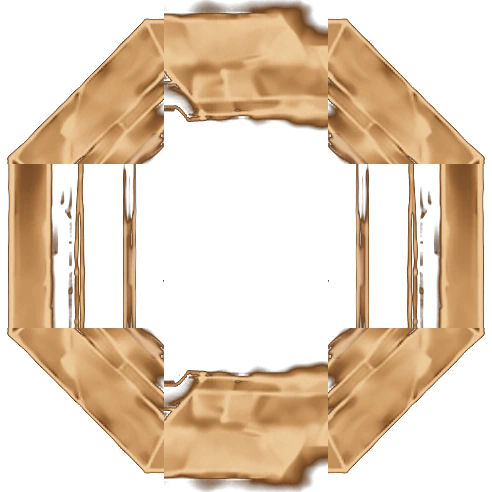
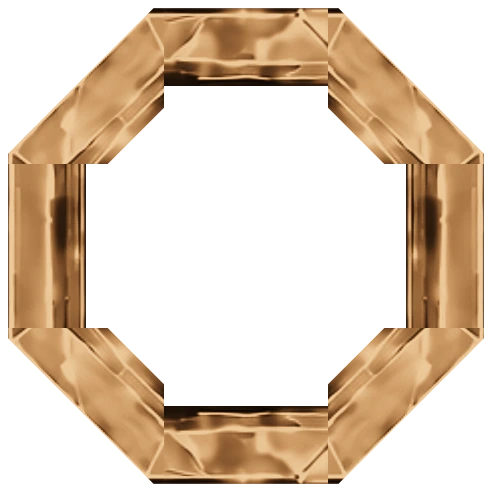
Light-mode polish: card outline, list panels, clean row frames
From the owner's screenshots (2026-10-06):

- The full card showed its plate's black surround as a box on a light page.
  The card is now clipped to the frame's outline (CARD_SILHOUETTE in
  lib/cardGeometry, measured from the plate art); its drop shadow moves to
  the box around the stage so it follows the outline. Inside the outline
  the five levels match the old baselines to within 18 px of anti-aliasing;
  baselines re-recorded (design/baselines/README.md).
- Roster and leaderboard "floating around": the coach roster is one panel
  with a checked-in count, each player's status a chip under their row; the
  leaderboard's ranks 4+ are one panel under the podium.
- The sideways rows' frame looked badly cut: the mini frame (all levels and
  staff) is now one even band of the rail, cut on the card's outline, with
  rail pieces taken from flat stretches, so its edges are straight and the
  corners match.

Checks: tsc; 254 tests; fit (Chromium, WebKit); contrast both modes;
outlines; card baselines and style guide at 0.00%.

diff --git a/scripts/card-art.ts b/scripts/card-art.ts
@@ -31,13 +31,12 @@
 import { mkdirSync } from "node:fs";
 import { join } from "node:path";
 import sharp from "sharp";
-import { FRAME_WINDOW, MASTER_W } from "../lib/cardGeometry";
+import { CARD_SILHOUETTE, FRAME_WINDOW, MASTER_W } from "../lib/cardGeometry";
 import {
   FRAME_CELLS,
   LEVEL_LOOKS,
   RING_BAND,
   STAFF_LOOK,
-  brightness,
   pixelRecolor,
   swirlSource,
   type Recolor,
@@ -74,6 +73,28 @@ function columnWeight(x: number): number {
   if (x < KEEP_END) return 0;
   if (x < HANDOVER_END) return (x - KEEP_END) / (HANDOVER_END - KEEP_END);
   return 1;
+}
+
+/** The rows' frame band = 255: the metal rail just inside the card's
+ * outline, ROW_RAIL card units deep all the way round (the outline drawn as a
+ * thick inside stroke, rendered as SVG so every edge is a clean straight cut).
+ * The card's own inner lines and notches stay out of the rows' frame. */
+const ROW_RAIL = 38;
+async function frameBandMask(): Promise<Buffer> {
+  const unit = W / MASTER_W;
+  const points = CARD_SILHOUETTE.map(([x, y]) => `${x * unit},${y * unit}`).join(" ");
+  return sharp(
+    Buffer.from(
+      `<svg xmlns="http://www.w3.org/2000/svg" width="${W}" height="${H}">` +
+        `<defs><clipPath id="c"><polygon points="${points}"/></clipPath></defs>` +
+        `<rect width="100%" height="100%" fill="black"/>` +
+        `<polygon points="${points}" fill="none" stroke="white" stroke-width="${ROW_RAIL * 2 * unit}" ` +
+        `stroke-linejoin="miter" clip-path="url(#c)"/></svg>`,
+    ),
+  )
+    .greyscale()
+    .raw()
+    .toBuffer();
 }
 
 /** Inside the frame window = 255. */
@@ -227,17 +248,12 @@ function ring(plate: Buffer): { pixels: Buffer; size: number } {
   return { pixels: out, size };
 }
 
-/** The frame's alpha from a pixel's brightness: the plate's dark backdrop
- * (≤ FRAME_CLEAR) is fully transparent, the metal (≥ FRAME_SOLID) opaque.
- * A softer fade left the backdrop 20–45% opaque — invisible on black, a gray
- * box around every row on a light page (owner, 2026-10-06). */
-const FRAME_CLEAR = 40;
-const FRAME_SOLID = 90;
-
 /** The rows' mini frame, as a 3×3 nine-slice (RGBA): the plate's corner, top
- * rail and left rail, mirrored for the other sides. Dark pixels are
- * transparent, so only the frame's lines sit over the row. */
-function frame(plate: Buffer): { pixels: Buffer; size: number; cell: number } {
+ * rail and left rail, mirrored for the other sides. Opaque exactly on the
+ * frame band (inside the card's outline, outside its window), so every edge
+ * is a clean straight cut: the owner saw ragged, notched edges on the rows
+ * when the alpha came from brightness (2026-10-06). */
+function frame(plate: Buffer, band: Buffer): { pixels: Buffer; size: number; cell: number } {
   const cell = Math.round(FRAME_CELLS.size * UNIT);
   const size = cell * 3;
   const out = Buffer.alloc(size * size * 4);
@@ -257,8 +273,7 @@ function frame(plate: Buffer): { pixels: Buffer; size: number; cell: number } {
         out[o] = Math.round(rgb[0]);
         out[o + 1] = Math.round(rgb[1]);
         out[o + 2] = Math.round(rgb[2]);
-        const lit = (brightness(rgb[0], rgb[1], rgb[2]) - FRAME_CLEAR) / (FRAME_SOLID - FRAME_CLEAR);
-        out[o + 3] = Math.round(Math.max(0, Math.min(1, lit)) * 255);
+        out[o + 3] = band[Math.round(sy) * W + Math.round(sx)];
       }
     }
   }
@@ -266,28 +281,29 @@ function frame(plate: Buffer): { pixels: Buffer; size: number; cell: number } {
 }
 
 /** A level's plate plus the small sizes' ring and mini frame cut from it. */
-async function writeArt(dir: string, plate: Buffer, writePlate = true) {
+async function writeArt(dir: string, plate: Buffer, band: Buffer, writePlate = true) {
   if (writePlate) await writeWebp(plate, W, H, 3, join(dir, "plate.webp"), 92);
   const r = ring(plate);
   await writeWebp(r.pixels, r.size, r.size, 4, join(dir, "ring.webp"), 92);
-  const f = frame(plate);
+  const f = frame(plate, band);
   await writeWebp(f.pixels, f.size, f.size, 4, join(dir, "frame.webp"), 92);
 }
 
 async function main() {
   const mask = await windowMask();
+  const band = await frameBandMask();
   const plate = await platinumPlate(mask);
-  await writeArt(finishDir("platinum"), plate, false);
+  await writeArt(finishDir("platinum"), plate, band, false);
   const field = await sharp(FIELD_SOURCE).removeAlpha().raw().toBuffer({ resolveWithObject: true });
   const { width: fw, height: fh } = field.info;
   await writeWebp(field.data, fw, fh, 3, join(finishDir("platinum"), "field.webp"), 90);
 
   for (const [level, look] of Object.entries(LEVEL_LOOKS)) {
-    await writeArt(finishDir(level), recolor(plate, W, H, 3, look.frame, look.window, mask));
+    await writeArt(finishDir(level), recolor(plate, W, H, 3, look.frame, look.window, mask), band);
     const own = twist(field.data, fw, fh, 3, look.swirls);
     await writeWebp(recolor(own, fw, fh, 3, look.field), fw, fh, 3, join(finishDir(level), "field.webp"), 90);
   }
-  await writeArt(join("public", "card", "staff"), recolor(plate, W, H, 3, STAFF_LOOK.frame, STAFF_LOOK.window, mask));
+  await writeArt(join("public", "card", "staff"), recolor(plate, W, H, 3, STAFF_LOOK.frame, STAFF_LOOK.window, mask), band);
 }
 
 main().catch((e) => {

diff --git a/app/(main)/CoachHome.tsx b/app/(main)/CoachHome.tsx
@@ -4,6 +4,8 @@ import { formatTime } from "@/lib/format";
 import { PlayerCard } from "@/app/components/PlayerCard";
 import { sendCheckInReminder } from "./coach/actions";
 import { cutoutSrc, photoSrc } from "@/lib/photoUrl";
+import { cardDefault } from "@/app/components/ui/Card";
+import { chipClass } from "@/app/components/ui/Pill";
 
 // The coach's team dashboard (shown at "/" for a COACH). A TODAY summary with a
 // check-in progress ring + the full roster (alphabetical by last name) as compact
@@ -151,13 +153,19 @@ export async function CoachHome({
         );
       })()}
 
-      {/* ROSTER */}
-      <section>
-        <p className="e24-eyebrow mb-2">Roster · {totalPlayers}</p>
+      {/* ROSTER — one panel; each player is a unit: their row, then today's
+          status as a chip (owner, 2026-10-06: loose lines read as floating). */}
+      <section className={`${cardDefault} p-4`}>
+        <div className="flex items-baseline justify-between gap-3">
+          <h2 className="e24-eyebrow">Roster · {totalPlayers}</h2>
+          <span className="text-xs font-semibold text-subtle">
+            {checkedInToday} of {totalPlayers} checked in
+          </span>
+        </div>
         {roster.length === 0 ? (
-          <p className="text-sm text-subtle">No players on this team yet.</p>
+          <p className="mt-3 text-sm text-subtle">No players on this team yet.</p>
         ) : (
-          <ul className="flex flex-col gap-3">
+          <ul className="mt-3 flex flex-col gap-4">
             {roster.map((r) => (
               <li key={r.id}>
                 <Link
@@ -179,15 +187,17 @@ export async function CoachHome({
                     }}
                     team={user.team}
                   />
-                  <p
-                    className={`mt-1 px-1 text-[11px] font-medium ${
-                      r.checkedInAt ? "text-good" : "text-warn"
-                    }`}
-                  >
-                    {r.checkedInAt
-                      ? `✓ Checked in ${formatTime(r.checkedInAt)}`
-                      : "Not checked in yet"}
-                  </p>
+                  <span className="mt-1.5 flex items-center justify-between gap-2 px-1">
+                    {r.checkedInAt ? (
+                      <span className={chipClass("good")}>✓ Checked in {formatTime(r.checkedInAt)}</span>
+                    ) : (
+                      <span className={chipClass("neutral")}>
+                        <span aria-hidden className="h-2 w-2 rounded-full bg-warn-solid" />
+                        Not checked in yet
+                      </span>
+                    )}
+                    <span className="text-xs font-semibold text-subtle">Open →</span>
+                  </span>
                 </Link>
               </li>
             ))}

diff --git a/app/components/card/CardCompositor.tsx b/app/components/card/CardCompositor.tsx
@@ -1,7 +1,7 @@
 "use client";
 
 import { useEffect, useRef, useState, type CSSProperties, type ReactNode } from "react";
-import { CARD_ASPECT, DEFAULT_WIDTH_PX, MASTER_W } from "@/lib/cardGeometry";
+import { CARD_ASPECT, CARD_CLIP, DEFAULT_WIDTH_PX, MASTER_W } from "@/lib/cardGeometry";
 
 // THE COMPOSITOR ROOT (Plan v4 §4.5). One fixed-aspect stage on the 1000×1500
 // master: every child positions itself in design units via `--u`
@@ -13,6 +13,11 @@ import { CARD_ASPECT, DEFAULT_WIDTH_PX, MASTER_W } from "@/lib/cardGeometry";
 // The stack must stay FLAT: every layer is a direct child of the stage — no
 // wrapper with filter/clip-path/opacity between a blended layer and what it
 // blends onto (each of those creates a stacking context and breaks blending).
+//
+// The stage is clipped to the frame's outline (CARD_CLIP), so the plate's
+// black surround never shows on a light page. A caller's `filter` (the card's
+// drop shadow) goes on the box AROUND the stage, so the shadow follows the
+// clipped outline instead of being cut off by it.
 
 export function CardCompositor({
   width = DEFAULT_WIDTH_PX,
@@ -30,6 +35,7 @@ export function CardCompositor({
   className?: string;
   style?: CSSProperties;
 } & Omit<React.HTMLAttributes<HTMLDivElement>, "style" | "className" | "children">) {
+  const { filter, ...stageStyle } = style ?? {};
   const ref = useRef<HTMLDivElement>(null);
   const raf = useRef<number | null>(null);
   const [reduced, setReduced] = useState(false);
@@ -84,7 +90,7 @@ export function CardCompositor({
   // too — read on the stage, container units come from whatever container
   // is outside the card, and a small card got a screen-sized shadow.
   return (
-    <div style={{ width, maxWidth: "100%", containerType: "inline-size" }}>
+    <div style={{ width, maxWidth: "100%", containerType: "inline-size", filter }}>
       <div
         ref={ref}
         {...rest}
@@ -105,6 +111,7 @@ export function CardCompositor({
           // still widened the page, letting it open zoomed-in on a phone.
           // "clip", not "hidden": no scroll container, and the 3D tilt holds.
           overflow: "clip",
+          clipPath: CARD_CLIP,
           isolation: "isolate",
           // Vertical scroll and pinch-zoom still work when a gesture starts on
           // the card; sideways drags drive the tilt. A still card leaves touch
@@ -120,7 +127,7 @@ export function CardCompositor({
             "--u": `calc(100cqw / ${MASTER_W})`,
             ...(staticRender ? { "--so": "0" } : {}),
           } as CSSProperties),
-          ...style,
+          ...stageStyle,
         }}
       >
         <style>{STAGE_STYLE}</style>

diff --git a/app/(main)/leaderboard/page.tsx b/app/(main)/leaderboard/page.tsx
@@ -7,7 +7,7 @@ import {
   type RankedPlayer,
 } from "@/lib/leaderboard";
 import { PlayerCard, type CardTeam } from "@/app/components/PlayerCard";
-import { rowOnPage } from "@/app/components/ui/Card";
+import { cardDefault, rowOnPage } from "@/app/components/ui/Card";
 import { chipClass, pillClass } from "@/app/components/ui/Pill";
 import { cutoutSrc, photoSrc } from "@/lib/photoUrl";
 
@@ -260,11 +260,12 @@ export default async function LeaderboardPage({
         </section>
       )}
 
-      {/* List — rank 4+ */}
+      {/* List — rank 4+, in one panel under the podium (owner, 2026-10-06:
+          rows loose on the page read as floating). */}
       {!weekView && rest.length > 0 && (
-        <section>
-          <div className="mb-3 h-px w-full bg-gradient-to-r from-transparent via-line-strong to-transparent" />
-          <ul className="flex flex-col gap-2">
+        <section className={`${cardDefault} p-4`}>
+          <h2 className="e24-eyebrow">Ranks 4–{ranked.length}</h2>
+          <ul className="mt-3 flex flex-col gap-2.5">
             {rest.map((player) => {
               const isMe = player.id === user.id;
               return (
@@ -272,7 +273,7 @@ export default async function LeaderboardPage({
                   <Link
                     href={`/brand/${player.id}`}
                     className={`relative block rounded-xl transition active:scale-[0.99] ${
-                      isMe ? "ring-2 ring-accent-edge ring-offset-2 ring-offset-canvas" : "hover:opacity-90"
+                      isMe ? "ring-2 ring-accent-edge ring-offset-2 ring-offset-panel" : "hover:opacity-90"
                     }`}
                   >
                     <PlayerCard

diff --git a/lib/cardGeometry.ts b/lib/cardGeometry.ts
@@ -44,6 +44,19 @@ export type Zone = { x: number; y: number; w: number; h: number };
 /** Selects the face window in the supplied artwork; never draws metal. */
 export const FRAME_WINDOW = "M115 82H885L918 115V1160L884 1211H120L82 1170V116L115 82Z";
 
+/** The card's outline: the frame's outside edge, a hair inside the metal,
+ * measured from the plate art (every level's plate is a recolor of the same
+ * frame). The plate is a rectangle with black around the frame — invisible on
+ * a black page, a black box on a light one (owner, 2026-10-06) — so the card
+ * is clipped to this. Not a geometry change: everything inside stays put. */
+export const CARD_SILHOUETTE: readonly (readonly [number, number])[] = [
+  [44, 95], [115, 24], [318, 24], [328, 34], [672, 34], [682, 24], [885, 24], [956, 95],
+  [956, 1406], [890, 1472], [795, 1472], [785, 1479], [745, 1479], [735, 1486],
+  [265, 1486], [255, 1479], [215, 1479], [205, 1472], [110, 1472], [44, 1406],
+];
+/** CARD_SILHOUETTE as a CSS clip-path (percentages, so it fits any width). */
+export const CARD_CLIP = `polygon(${CARD_SILHOUETTE.map(([x, y]) => `${(x / MASTER_W) * 100}% ${(y / MASTER_H) * 100}%`).join(", ")})`;
+
 // ---- safe areas -----------------------------------------------------------
 
 /**

diff --git a/lib/finishArt.ts b/lib/finishArt.ts
@@ -126,8 +126,11 @@ export const STAFF_LOOK: Pick<LevelLook, "frame" | "window" | "live" | "energy">
 export const RING_BAND = { x0: 44, x1: 66, y0: 500, y1: 1150 };
 
 /** The corner, top rail and left rail cells of the rows' mini frame; the
- * other sides mirror them, so it's symmetric and free of the card's notches. */
-export const FRAME_CELLS = { size: 80, corner: { x: 40, y: 17 }, top: { x: 250, y: 17 }, left: { x: 40, y: 600 } };
+ * other sides mirror them, so it's symmetric and free of the card's notches.
+ * The rails come from flat stretches whose edges line up with the corner's
+ * (the top rail steps down at x 318–328; the side rail has ornaments at
+ * y 420 and 725–775 — cells across those showed as notches on the rows). */
+export const FRAME_CELLS = { size: 80, corner: { x: 40, y: 20 }, top: { x: 160, y: 20 }, left: { x: 40, y: 820 } };
 
 // ---- the recolor -----------------------------------------------------------
 

diff --git a/design/baselines/README.md b/design/baselines/README.md
@@ -3,6 +3,7 @@
 Owner-approved card renders. `scripts/shoot-cards.ts --check` pixel-compares fresh shots against these to catch accidental drift. The owner's visual approval is the design authority; these files only record it.
 
 - `master-bronze.png`, `master-silver.png`, `master-gold.png`, `master-platinum.png`, `master-diamond.png`: the master card at every level, approved together on 2026-09-26 ("This looks really good. Let's go with this for now"). Platinum's geometry was locked earlier the same day; it has changed by 0.01% since (its energy texture moved to WebP), and this set records the lineup as approved.
+- Re-recorded 2026-10-06: the card is now clipped to its frame's outline (`CARD_SILHOUETTE` in `lib/cardGeometry.ts`) — the owner saw the plate's black surround as a box around the card on a light page. Inside the outline these match the 2026-09-26 set to within 18 pixels of anti-aliasing; only the black surround and the cut edge changed.
 
 Check (needs the card dev server against the local `e24cards` database):
 

diff --git a/MIGRATION-HANDOFF.md b/MIGRATION-HANDOFF.md
@@ -116,6 +116,13 @@ The accent is now `#E1102A` (branch `accent-logo-red`), with accent text a shade
 the light page (`#C00D24`) and lighter on black (`#FF3B4F`) for contrast. Only color values
 in `app/globals.css` changed, plus the style-guide baselines.
 
+**Then (2026-10-06): light-mode polish** (branch `light-polish`), from the owner's
+screenshots: the full card showed the plate's black surround as a box on a light page (now
+clipped to the frame's outline, `CARD_SILHOUETTE`; card baselines re-recorded, identical
+inside the outline); the roster and leaderboard lists looked like loose pieces (each now
+one panel, with roster status as chips); the sideways rows' frame edges looked ragged (the
+mini frame is now cut from one even band of the rail, `scripts/card-art.ts`). No migration.
+
 ---
 
 ## 1. WHERE WE ARE (mid-motion, this second)
